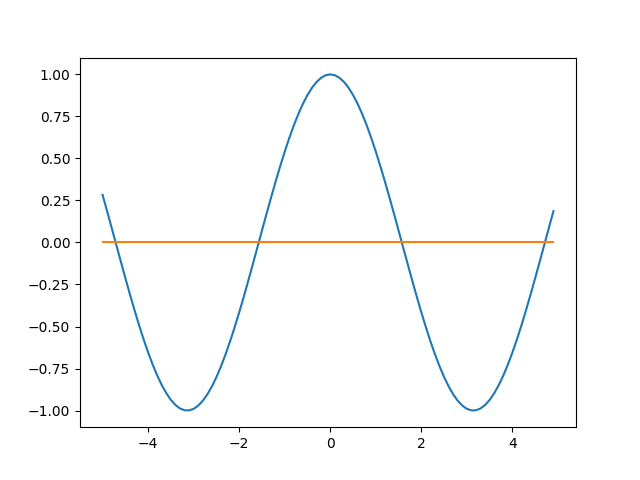
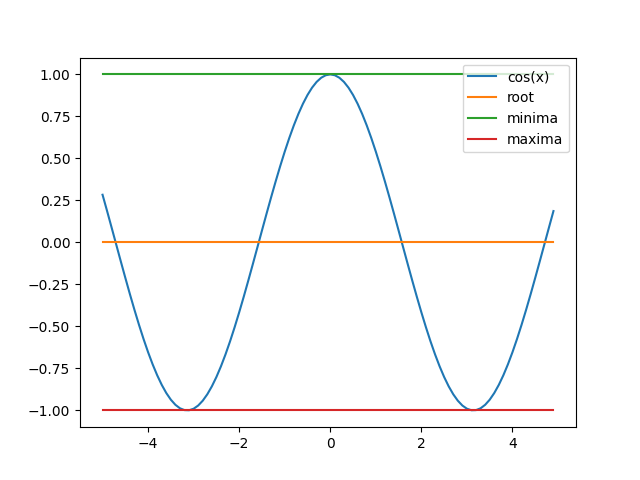
done

Changed region(s): [[0.1562, 0.125, 0.875, 0.3125], [0.1562, 0.8438, 0.8438, 0.875]]

diff --git a/some_scipy.py b/some_scipy.py
@@ -1,5 +1,5 @@
 from scipy import constants
-from scipy.optimize import root
+from scipy.optimize import root, minimize
 import matplotlib
 import numpy as np
 matplotlib.use('Agg')
@@ -9,11 +9,16 @@ def eqn(x):
     return np.cos(x)
 
 myroot = root(eqn, -1)
+myminima = minimize(eqn, -1, method='BFGS')
+mymaxima = minimize(lambda x : -eqn(x), -1, method='BFGS')
 
 print(myroot.x)
 
 x = np.arange(-5, 5, 0.1)
-plt.plot(x, eqn(x))
-plt.plot(x, [eqn(myroot.x) for i in x])
+plt.plot(x, eqn(x), label='cos(x)')
+plt.plot(x, [eqn(myroot.x) for i in x], label='root')
+plt.plot(x, [eqn(mymaxima.x) for i in x], label='minima')
+plt.plot(x, [eqn(myminima.x) for i in x], label='maxima')
+plt.legend()
 plt.savefig("sin_graph.png")
 

diff --git a/some_scipy_sparse.py b/some_scipy_sparse.py
@@ -1,0 +1,12 @@
+import numpy as np
+from scipy.sparse import csr_matrix, csc_matrix
+
+arr = np.array([0,0,0,0,1,1,1,1,2,2,2,2,4,6,6,8])
+
+print(csr_matrix(arr))
+
+arr = np.array([[0,0,0],[0,0,1],[1,0,2]])
+
+print(csr_matrix(arr).data)
+print(csr_matrix(arr).count_nonzero())
+print(csr_matrix(arr).sum_duplicates())
